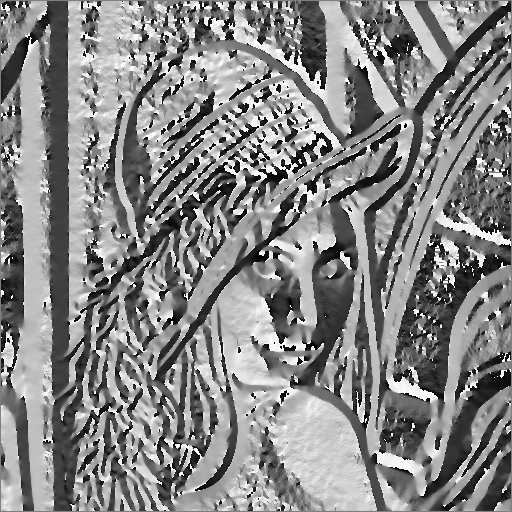
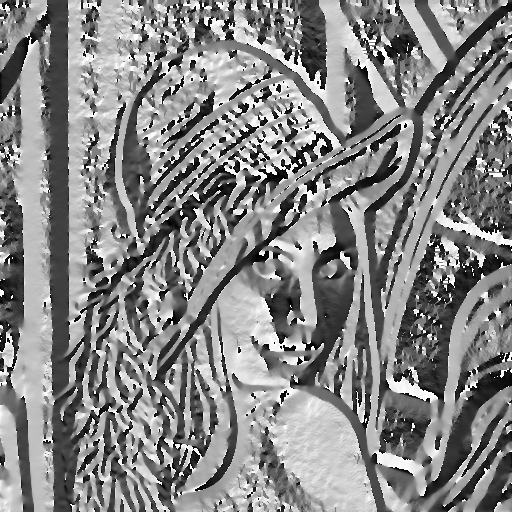
image scale down to its original size

Changed region(s): [[0.9688, 0.25, 1.0, 0.2812], [0.9688, 0.0625, 1.0, 0.0938], [0.0, 0.9688, 0.0312, 1.0]]

diff --git a/ProcessingPipeline/src/processingpipeline/Main.java b/ProcessingPipeline/src/processingpipeline/Main.java
@@ -7,7 +7,7 @@ import javax.imageio.ImageIO;
 
 public class Main {
 
-    private static final String sInput = "src/image/Lenna.png";
+    private static final String sInput = "src/image/A_Lenna.png";
     private static final int padding_x = 7; // Must be odd number
     private static final int padding_y = 7; // Must be odd number
    
@@ -16,19 +16,19 @@ public class Main {
 
         System.out.println("Processing Pipeline");
         
-        /*------------------- Percentile -----------------------*/
+        /*-------------------- Percentile -----------------------*/
         int[][] imgPrecentile = ProcessPrecentile();
         
-        //Reflection ref = new Reflection();        
-        //int[][] imgReflection = ref.conv(imgPrecentile, padding_x, padding_y);  
-        //ImageWrite("src/image/reflection.png", imgReflection);
-        int[][] imgReflection = ImageRead(sInput);
-        /*------------------ Median Filter ---------------------*/
+        Reflection ref = new Reflection();        
+        int[][] imgReflection = ref.conv(imgPrecentile, padding_x, padding_y);  
+        ImageWrite("src/image/reflection.png", imgReflection);
+           
+        /*------------------- Median Filter ---------------------*/
         MedianFilter median = new MedianFilter();
         int[][] imgMedian = median.process(imgReflection);        
-        //ImageWrite("src/image/Median.png", imgMedian);
+        ImageWrite("src/image/Median.png", imgMedian);
         
-        /*------------------ Gausian 2D ------------------------*/
+        /*------------------- Gausian 2D ------------------------*/
         Gaussian2D g2d = new Gaussian2D();
         float[][] kernel = g2d.kernel(1.6f, 15, false);
         int[][] imgGaussian = g2d.convolve(imgMedian, kernel);        
@@ -37,18 +37,19 @@ public class Main {
         /*---------------- Sobel Edge Detection -----------------*/
         Sobel sobel = new Sobel();
         sobel.process("src/image/Gaussian.png");
-        ImageWrite( "src/image/SobelMagnitute.png", sobel.Magnitute);
-        ImageWrite( "src/image/SobelDirection.png", sobel.Direction);
+        
+        /*---------- Scaledown Remove Reflection Padding --------*/
+        int[][] temp = ScaleDown(sobel.Magnitute ,padding_x,padding_y);
+        ImageWrite( "src/image/SobelMagnitute.png", temp);        
+        temp = ScaleDown(sobel.Direction ,padding_x,padding_y);
+        ImageWrite( "src/image/SobelDirection.png", temp);
         
         /*------------------ Otsu Binarize ----------------------*/
         OtsuBinarize otsu = new OtsuBinarize("src/image/SobelMagnitute.png");
         otsu.run();        
         File file = new File("src/image/OtsuBinarize" + otsu.treshold + ".png");
         ImageIO.write(otsu.binarized, "png", file);
-                
-        /*---------- Scaledown Remove Reflection Padding -------*/
-        //int[][] simage = ref.ScaleDown(oimage,padding_x,padding_y);
-        //ImageWrite(simage, "src/image/scaledown.png");       
+                        
     }
     /*--------------------------------------------------------------------------------------------*/    
     private static int[][] ProcessPrecentile() throws IOException {
@@ -123,6 +124,26 @@ public class Main {
 
             File outputfile = new File(filename);
             ImageIO.write(bi, "png", outputfile);
+    }
+    /*--------------------------------------------------------------------------------------------*/    
+    public static int[][] ScaleDown(double[][] paddedImg, int x_size, int y_size) {
+        
+        int height=paddedImg.length-y_size+1;
+        int width=paddedImg[0].length-x_size+1;
+        
+        int half_y=y_size/2;
+        int half_x=x_size/2;
+        
+        int[][] scaledDownImg = new int[height][width];
+        
+        for(int i=0; i<512; i++) {
+            for(int j=0; j<512; j++) {                                
+                scaledDownImg[i][j] = (int) paddedImg[half_y+i][half_x+j];
+            }
+        }
+        
+        return scaledDownImg;
+        
     }
     /*--------------------------------------------------------------------------------------------*/    
 }

diff --git a/ProcessingPipeline/src/processingpipeline/Reflection.java b/ProcessingPipeline/src/processingpipeline/Reflection.java
@@ -89,25 +89,6 @@ public class Reflection {
 
         return oimage;
     }
-    /*--------------------------------------------------------------------------------------------*/   
-    public int[][] ScaleDown(int[][] paddedImg, int x_size, int y_size) {
-        
-        int height=paddedImg.length-y_size+1;
-        int width=paddedImg[0].length-x_size+1;
-        
-        int half_y=y_size/2;
-        int half_x=x_size/2;
-        
-        int[][] scaledDownImg = new int[height][width];
-        
-        for(int i=0; i<512; i++) {
-            for(int j=0; j<512; j++) {                                
-                scaledDownImg[i][j] = paddedImg[half_y+i][half_x+j];
-            }
-        }
-        
-        return scaledDownImg;
-        
-    }
-    /*--------------------------------------------------------------------------------------------*/
+    /*--------------------------------------------------------------------------------------------*/  
+    
 }
